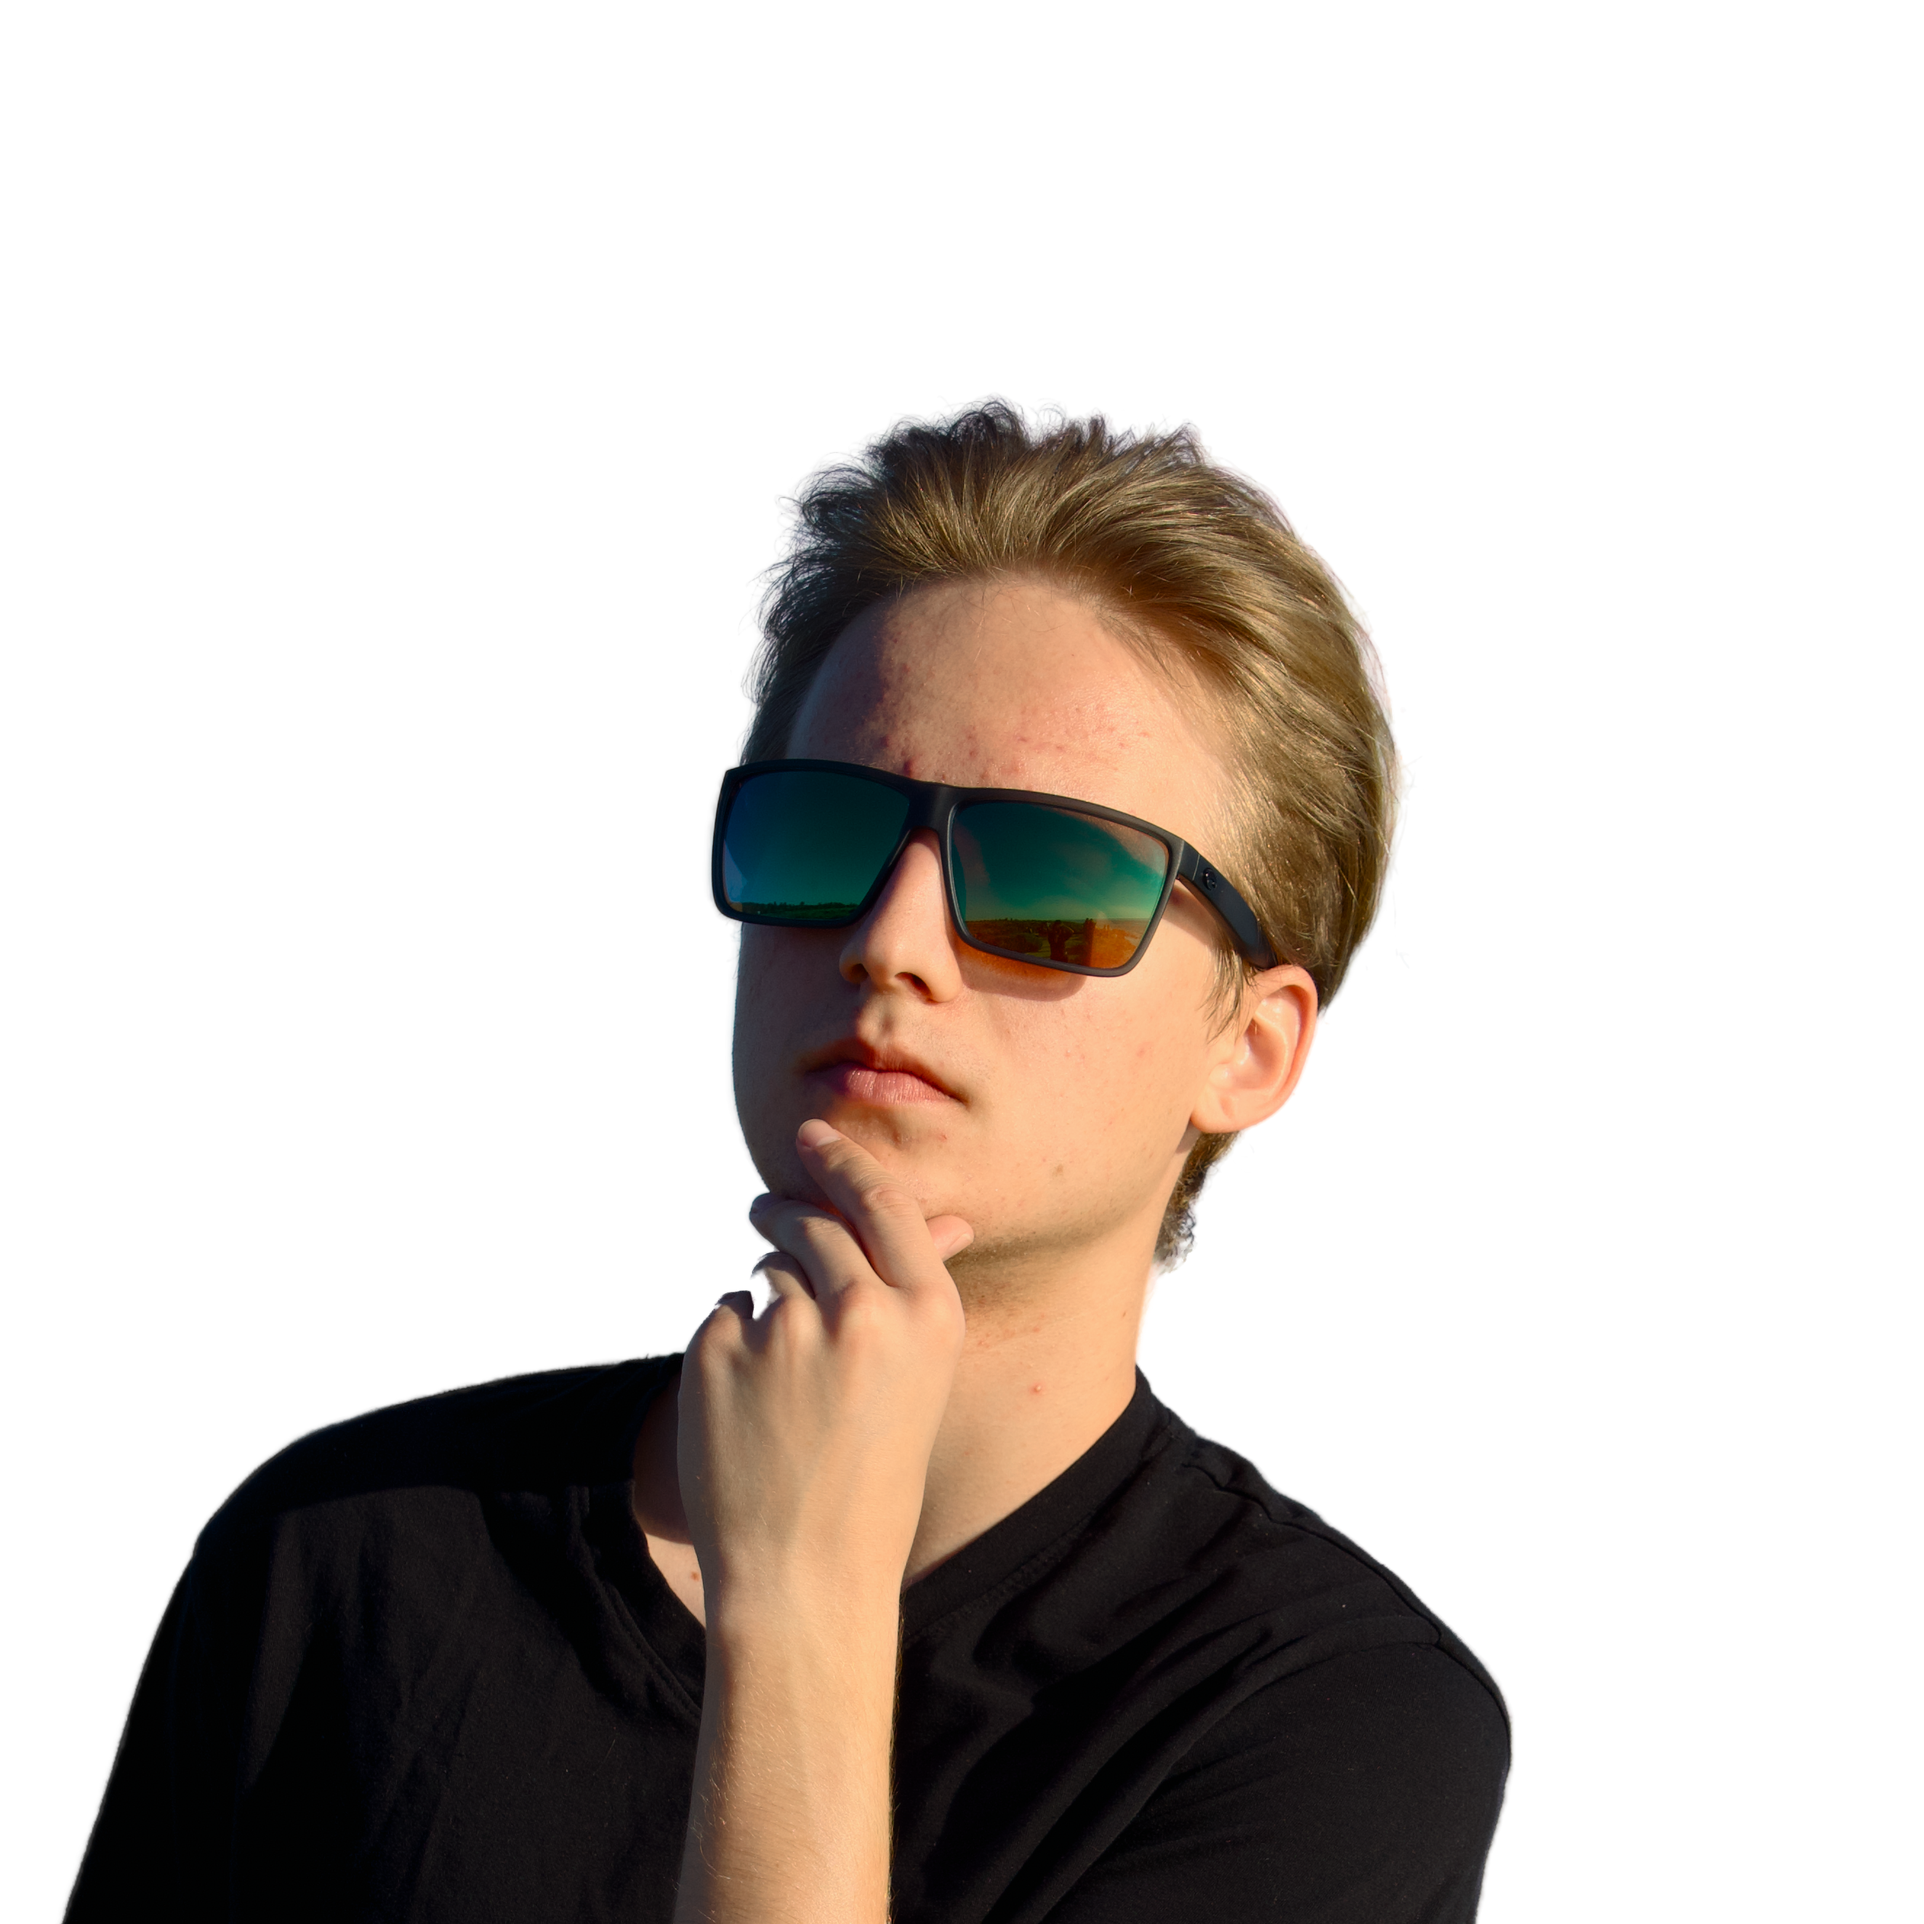
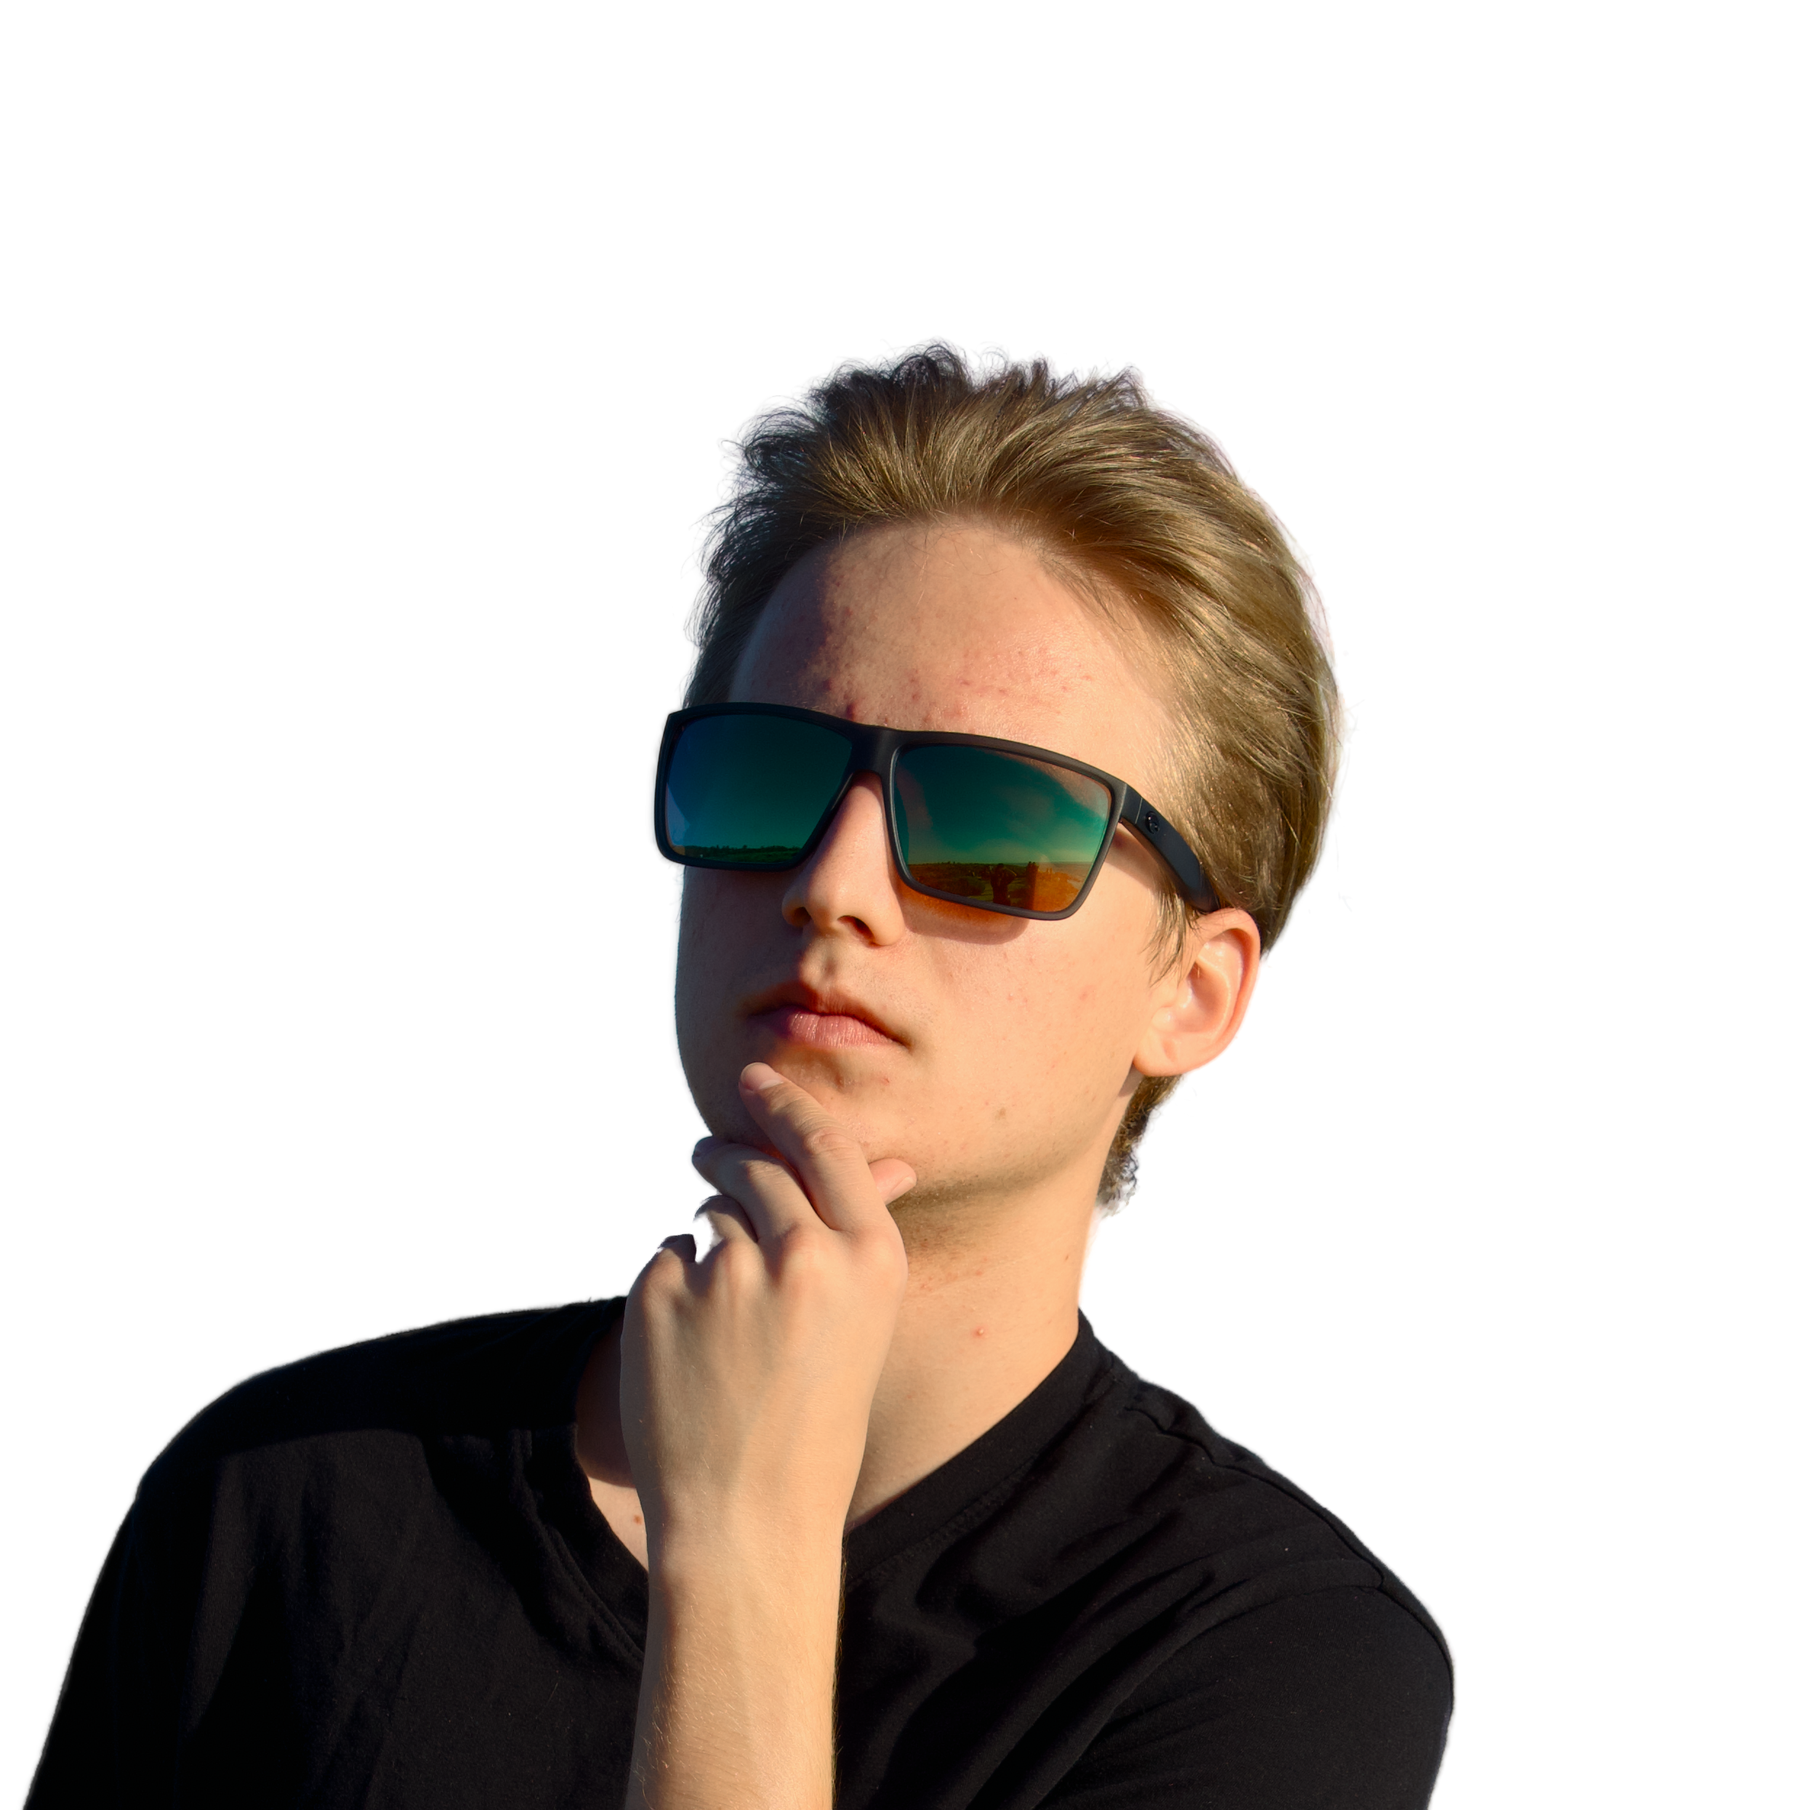
divi newton

diff --git a/app/(main)/_components/_team/team-section.tsx b/app/(main)/_components/_team/team-section.tsx
@@ -48,11 +48,6 @@ const TeamSection = () => {
           linkedinLink="https://www.linkedin.com/in/kalin-richardson/"
         />
         <TeamMember
-          name="Owen Agbayani"
-          teamRole="Executive Team"
-          linkedinLink="https://www.linkedin.com/in/agbayani/"
-        />
-        <TeamMember
           name="Joel Escobar"
           teamRole="Executive Team"
           linkedinLink="https://www.linkedin.com/in/joel-escobar-6059a4214/"
@@ -65,6 +60,11 @@ const TeamSection = () => {
         <TeamMember
           name="Daniel Tsivkovski"
           teamRole="Software Team"
+          linkedinLink="https://www.linkedin.com/in/danieltsivkovski/"
+        />
+        <TeamMember
+          name="Divi Newton"
+          teamRole="Mogging Team"
           linkedinLink="https://www.linkedin.com/in/danieltsivkovski/"
         />
         <TeamMember

diff --git a/app/(main)/_components/_team/team-member.tsx b/app/(main)/_components/_team/team-member.tsx
@@ -35,7 +35,7 @@ const TeamMember: React.FC<ITeamMemberProps> = ({
     >
       <Link href={linkedinLink} target="_blank" className="flex flex-col items-center space-y-5">
         <div
-          className={`rounded-full transition-all ${isHovered ? "scale-90" : "scale-125 translate-y-10"}`}
+          className={`rounded-full transition-all ${isHovered ? "scale-[95%] translate-y-2" : "scale-125 translate-y-8"}`}
           style={{
             boxShadow: `0px 10px 10px 1px ${color_hex}99`,
             backgroundImage: `linear-gradient(to bottom, transparent 0%, transparent ${isHovered ? "40%" : "70%"}, ${color_hex}55 100%)`,
